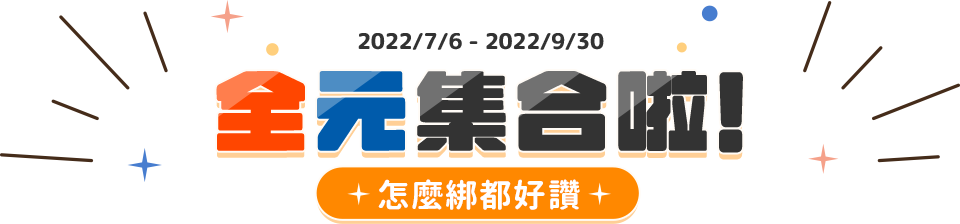
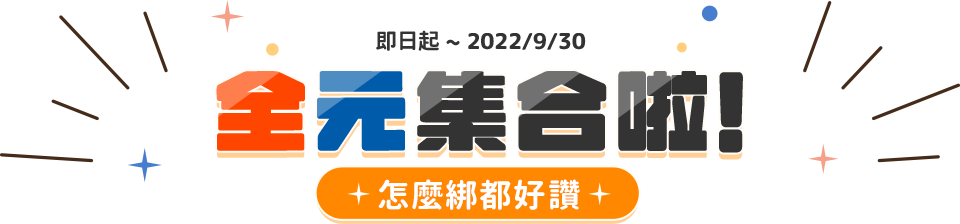
2022

Changed region(s): [[0.375, 0.125, 0.6562, 0.25]]

diff --git a/pluspay/index.html b/pluspay/index.html
@@ -94,7 +94,7 @@
                         <div class="event_tit">
                             <img src="assets/images/date.png" alt=""><span>活動期間</span>
                         </div>
-                        <div class="event_txt event_date">2022/7/6 - 2022/9/30</div>
+                        <div class="event_txt event_date">即日起 ~ 2022/9/30</div>
                         <div class="s_line webOnly"><img src="assets/images/s_line.png" alt=""></div>
                         <div class="event_tit">
                             <img src="assets/images/link.png" alt=""><span>活動內容</span>
@@ -232,11 +232,11 @@
                         <ul>
                             <li>活動內容：
                                 <ol>
-                                    <li>活動期間：自2022年7月6日起至 2022年9月30日止。</li>
+                                    <li>活動期間：即日起 ~ 2022年9月30日止。</li>
                                     <li>本活動須以全盈+PAY連結元大銀行存款帳戶，完成任一筆不限金額之儲值、或是任一筆不限金額之帳戶扣款消費，方可獲得回饋金新臺幣100元，每人限回饋乙次。</li>
                                     <li>活動名額限量5,000名，額滿訊息將於元大銀行官網公告，恕不另行通知。</li>
                                     <li>若採用數位存款帳戶連結全盈+PAY，其帳戶驗證方式須為「銀行帳戶」 、「自然人憑證」或「元大銀行晶片金融卡」之身分驗證方式；新申辦之數位存款帳戶亦同。(註：全盈+PAY小藍企鵝會員不得連結元大銀行第三類數位存款帳戶。</li>
-                                    <li>回饋方式採每月回饋，回饋金將於儲值或消費日之次月底前撥付至用戶連結全盈+PAY之存款帳戶，舉例：若用戶於2022年7月1日採用元大銀行帳戶連結全盈+PAY，並且完成一筆儲值，回饋金新臺幣100元將於2022年8月31日前撥付至用戶存款帳戶。惟倘回饋金撥付當日該帳戶發生如結清、繼承、凍結、取消綁定或其他無法入款項之情形，即不符合本活動回饋資格，視同用戶放棄回饋資格，恕不補發。</li>
+                                    <li>回饋方式採每月回饋，回饋金將於儲值或消費日之次月底前撥付至用戶連結全盈+PAY之存款帳戶，舉例：若用戶於2022年7月6日採用元大銀行帳戶連結全盈+PAY，並且完成一筆儲值，回饋金新臺幣100元將於2022年8月31日前撥付至用戶存款帳戶。惟倘回饋金撥付當日該帳戶發生如結清、繼承、凍結、取消綁定或其他無法入款項之情形，即不符合本活動回饋資格，視同用戶放棄回饋資格，恕不補發。</li>
                                 </ol>
                             </li>
                             <li>本網站的立場及聲明：

diff --git a/pluspay/assets/css/main.css b/pluspay/assets/css/main.css
@@ -15,7 +15,7 @@ img{margin: 0; padding: 0; display: block;}
 .kv .title{width: 50%; margin: 0 auto; padding-top: 1.5%;}
 .kv .title .kv_tit{width: 100%;}
 .kv .title .kv_subtit{width: 80%; margin: 0 auto;}
-.kv .peopleAll{width: 26.8%; position: absolute; top: 49.9%; left: 47%;}
+.kv .peopleAll{width: 26.8%; position: absolute; top: 49.9%; left: 42.5%;}
 .kv .peopleAll .people{width: 100%; position: relative;}
 .kv .peopleAll .girlflag{width: 40%; position: absolute; left: -12%; top: -17%; -webkit-animation: sway 1.5s infinite ease-in-out; animation: sway 1.5s infinite ease-in-out; transform-origin: right bottom;}
 .kv .peopleAll .girlphone{width: 19%; position: absolute; left: 15%; top: -4%; -webkit-animation: sway 1.5s infinite ease-in-out; animation: sway 1.5s infinite ease-in-out; transform-origin: right bottom;}
